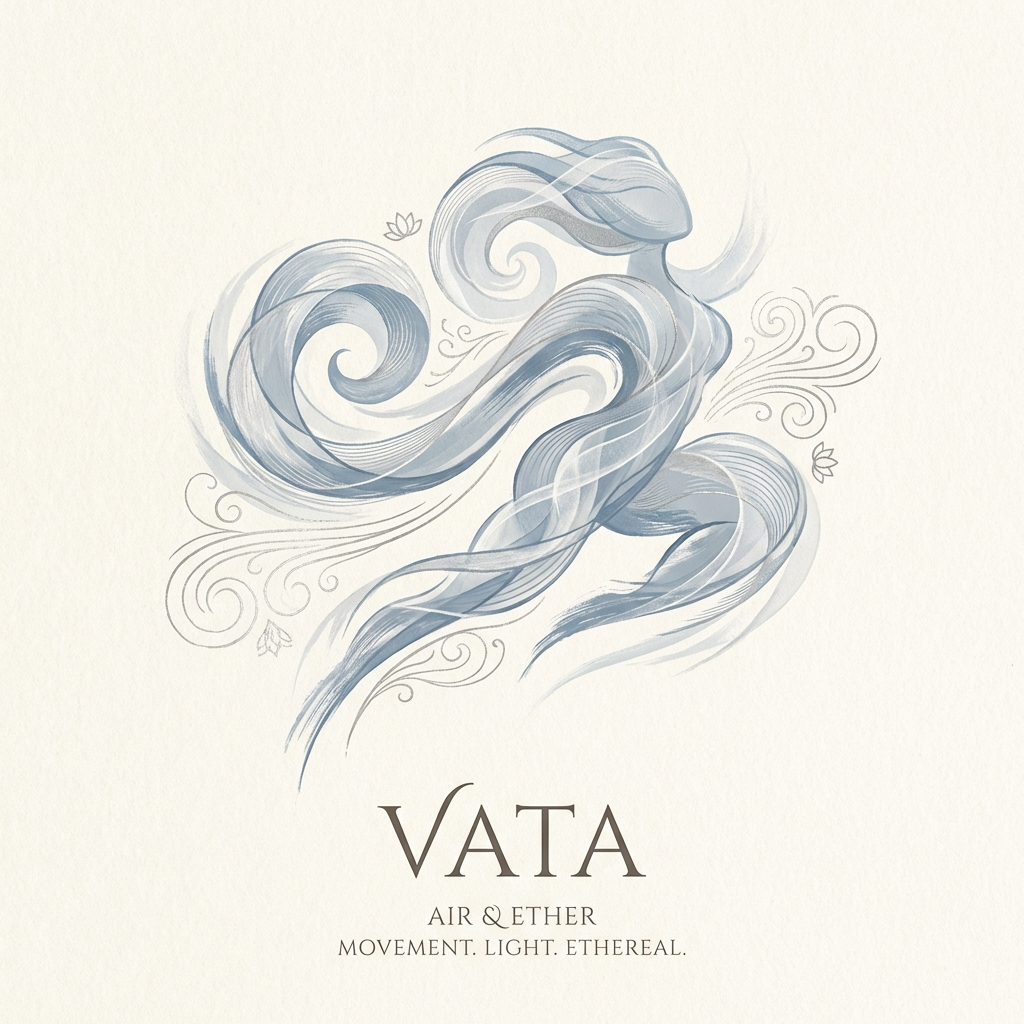
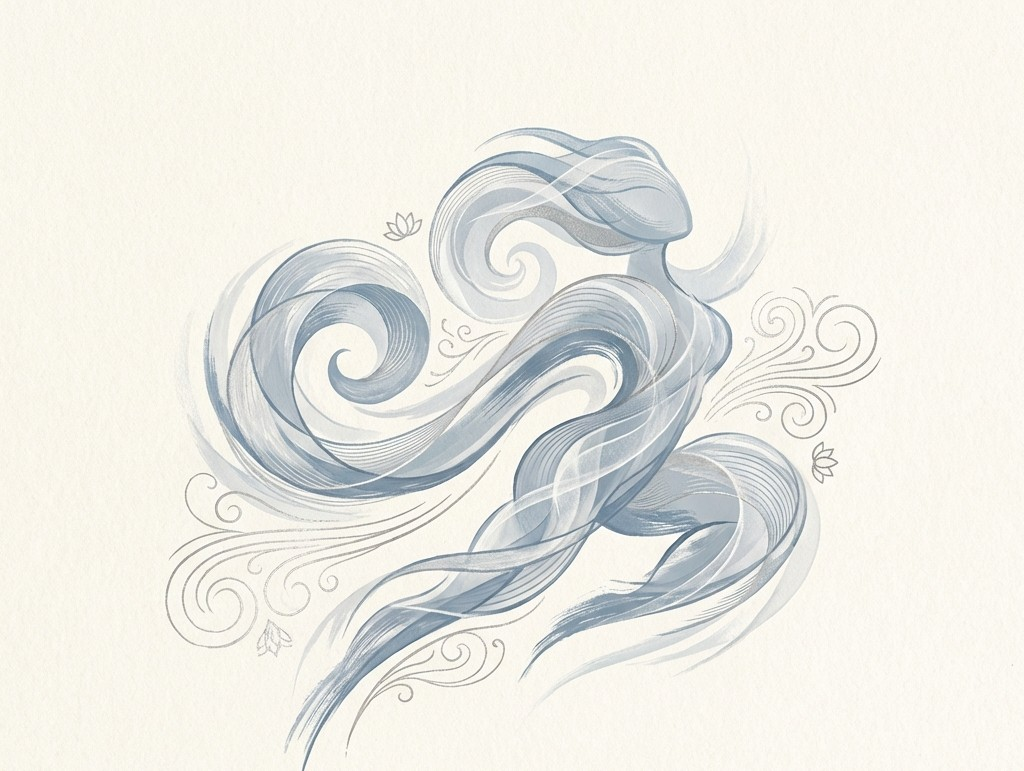
feat: Introduce responsive media query mixin and breakpoint variables, update hero background image, and refine component styling.

Changed region(s): [[0.1562, 0.1245, 0.8438, 0.9961]]

diff --git a/src/app/shared/components/header/header.component.scss b/src/app/shared/components/header/header.component.scss
@@ -28,12 +28,16 @@ header {
     align-items: center;
 
     img {
-        height: 80px;
+        height: 120px;
         width: auto;
         transition: $transition-smooth;
 
-        @media (max-width: 768px) {
-            height: 55px;
+        @include respond-to($breakpoint-tablet) {
+            height: 80px;
+        }
+
+        @include respond-to($breakpoint-mobile) {
+            height: 60px;
         }
     }
 }
@@ -72,7 +76,7 @@ nav {
         }
     }
 
-    @media (max-width: 768px) {
+    @include respond-to($breakpoint-tablet) {
         position: fixed;
         top: 0;
         right: -100%;
@@ -141,7 +145,7 @@ nav {
         }
     }
 
-    @media (max-width: 768px) {
+    @include respond-to($breakpoint-tablet) {
         display: block;
     }
 }

diff --git a/src/styles/_mixins.scss b/src/styles/_mixins.scss
@@ -6,10 +6,16 @@
     justify-content: center;
 }
 
+@mixin respond-to($breakpoint) {
+    @media (max-width: $breakpoint) {
+        @content;
+    }
+}
+
 @mixin section-padding {
     padding: $spacing-xl $spacing-md;
 
-    @media (max-width: 768px) {
+    @include respond-to($breakpoint-tablet) {
         padding: $spacing-lg $spacing-sm;
     }
 }
@@ -25,6 +31,10 @@
     max-width: 1440px;
     margin: 0 auto;
     padding: 0 $spacing-md;
+
+    @include respond-to($breakpoint-tablet) {
+        padding: 0 $spacing-sm;
+    }
 }
 
 @mixin responsive-grid($min-width: 300px) {

diff --git a/src/app/features/home/home.component.html b/src/app/features/home/home.component.html
@@ -1,5 +1,5 @@
 <section class="hero" #hero>
-    <div class="hero-bg" style="background-image: url('assets/images/vata.png')"></div>
+    <div class="hero-bg" style="background-image: url('assets/images/hero_bg_final.png')"></div>
     <div class="hero-overlay"></div>
     <div class="container hero-content">
         <h1 class="animate-on-scroll">Soulful. Natural.<br><span>Living.</span></h1>

diff --git a/src/app/features/home/home.component.scss b/src/app/features/home/home.component.scss
@@ -56,7 +56,7 @@
     display: flex;
     gap: $spacing-md;
 
-    @media (max-width: 480px) {
+    @include respond-to($breakpoint-mobile) {
         flex-direction: column;
     }
 }
@@ -239,7 +239,7 @@
     align-items: center;
     gap: $spacing-xl;
 
-    @media (max-width: 768px) {
+    @include respond-to($breakpoint-tablet) {
         grid-template-columns: 1fr;
     }
 }

diff --git a/src/styles.scss b/src/styles.scss
@@ -4,6 +4,12 @@
 
 @import url('https://fonts.googleapis.com/css2?family=Amatic+SC:wght@700&family=Inter:wght@300;400;500&family=Playfair+Display:ital,wght@0,400;0,700;1,400&display=swap');
 
+img {
+    max-width: 100%;
+    height: auto;
+    display: block;
+}
+
 html {
     font-size: $font-size-base;
     scroll-behavior: smooth;

diff --git a/src/styles/_variables.scss b/src/styles/_variables.scss
@@ -27,6 +27,11 @@ $spacing-md: 2rem;
 $spacing-lg: 4rem;
 $spacing-xl: 8rem;
 
+// Breakpoints
+$breakpoint-mobile: 480px;
+$breakpoint-tablet: 768px;
+$breakpoint-desktop: 1024px;
+
 // Transitions
 $transition-smooth: all 0.4s cubic-bezier(0.25, 0.46, 0.45, 0.94);
 $transition-slow: all 0.8s cubic-bezier(0.25, 1, 0.5, 1);
